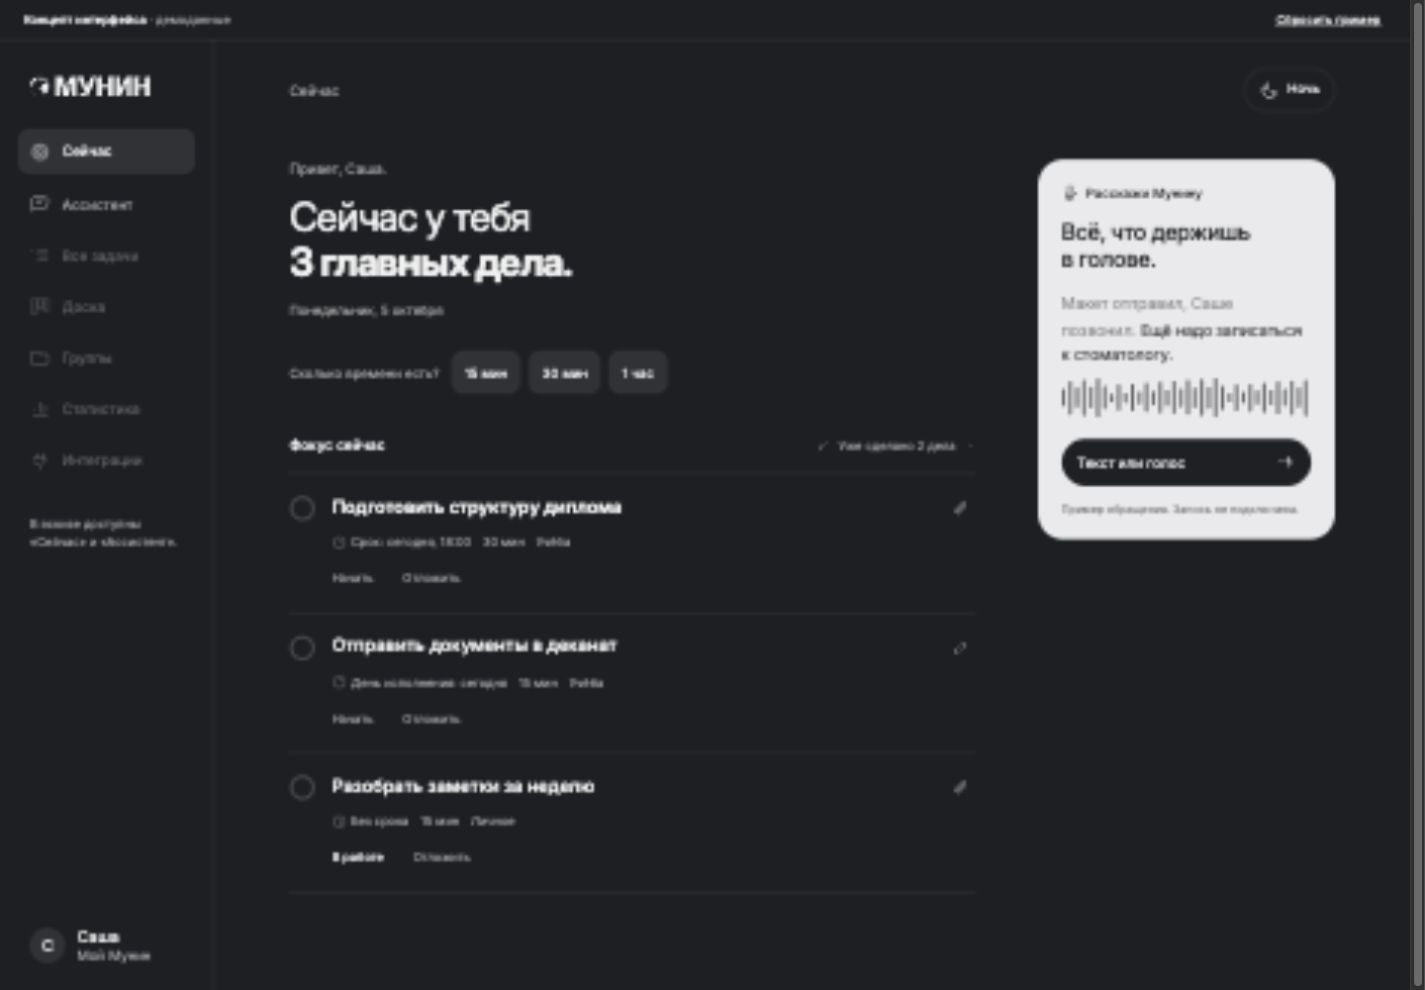
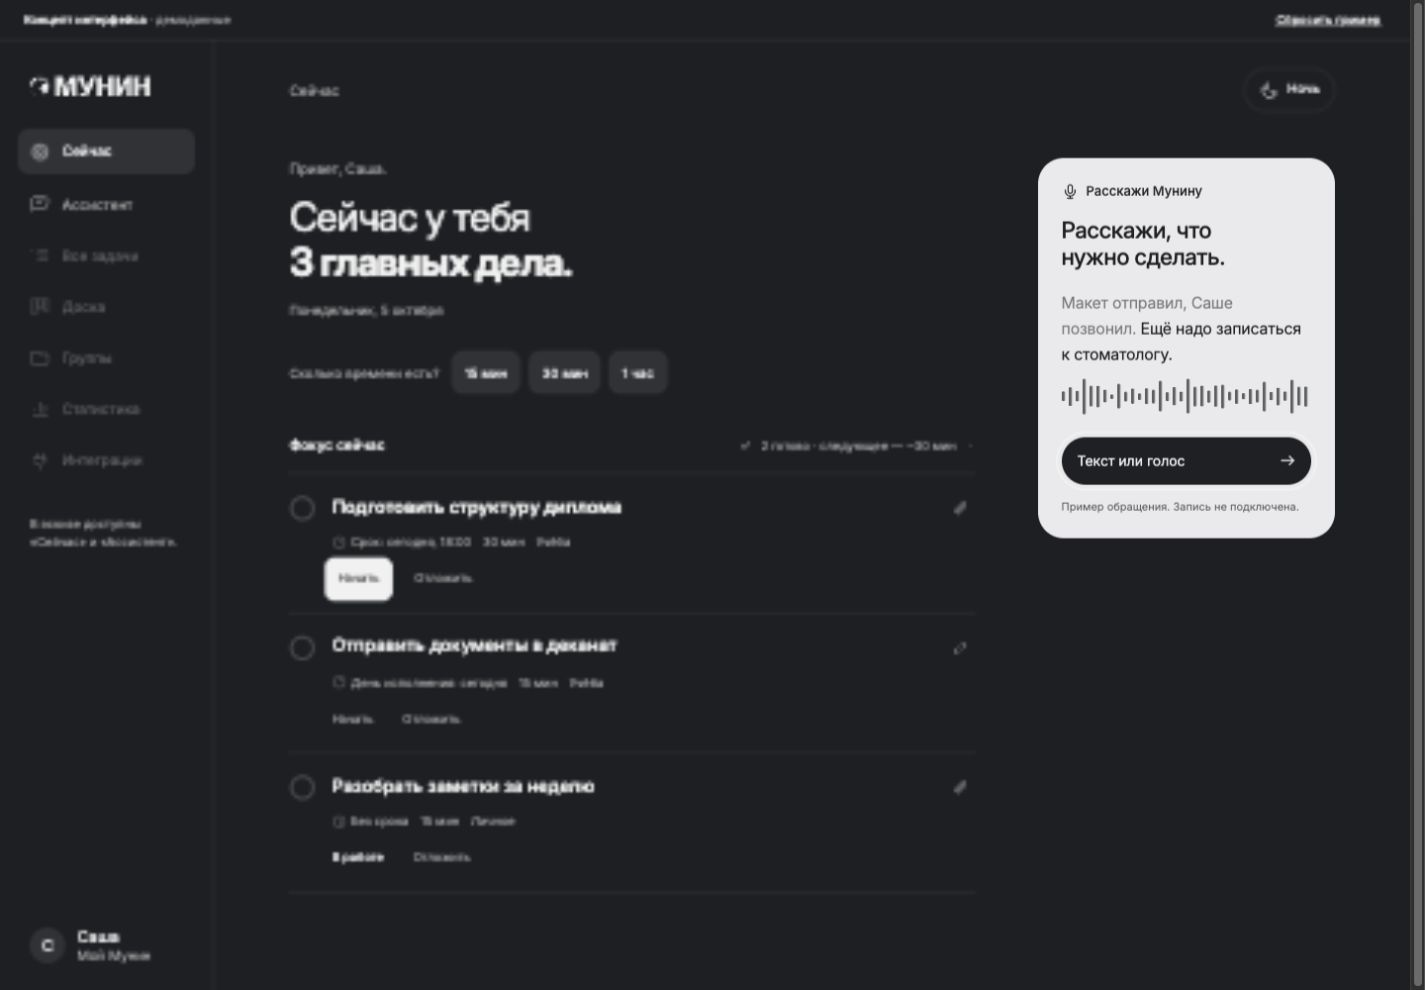
адаптировать ввод и отклик задач

diff --git a/docs/design/concept.html b/docs/design/concept.html
@@ -93,6 +93,7 @@
     .task-controls { display: flex; align-items: center; flex-wrap: wrap; gap: 4px 14px; margin: 6px 0 0 -8px; }
     .text-action { min-height: 44px; background: none; border: 0; padding: 8px; border-radius: 10px; font-size: 12px; color: var(--muted); }
     .text-action:hover { background: var(--raised); color: var(--text); }
+    .task:first-child .text-action[data-action="start"] { background: var(--text); color: var(--background); padding-inline: 14px; }
     .task-status { font-size: 12px; color: var(--text); margin: 0 8px; }
     .actions { display: flex; flex-wrap: wrap; gap: 8px; margin-top: 20px; }
     .action { min-height: 44px; border-radius: 12px; border: 1px solid var(--line); background: none; padding: 9px 14px; font-size: 14px; }
@@ -121,6 +122,10 @@
     .day-detail li .icon { width: 16px; height: 16px; margin-top: 2px; color: var(--muted); }
     .day-detail p { margin-top: 14px; font-size: 12px; color: var(--muted); }
     .bottom-nav { display: none; }
+    .capture-dock { display: none; }
+    .mobile-capture { display: none; }
+    .mini-wave { display: inline-flex; align-items: center; justify-content: center; gap: 3px; width: 26px; height: 24px; }
+    .mini-wave i { width: 2px; height: var(--bar-height); border-radius: 2px; background: currentColor; }
     .empty { padding: 24px 0; }
     .empty h3 { font-size: 22px; margin-bottom: 8px; }
     .empty p { color: var(--muted); font-size: 14px; }
@@ -150,18 +155,21 @@
     @media (max-width: 1023px) {
       .shell { grid-template-columns: minmax(0, 1fr); }
       .sidebar { display: none; } .mobile-brand { display: flex; padding: 0; } .top-label { display: none; }
-      .workspace { padding: 22px 24px calc(104px + var(--safe-bottom)); }
+      .workspace { padding: 22px 24px calc(176px + var(--safe-bottom)); }
       .top { margin-bottom: 32px; } .content { max-width: 680px; }
       .columns { grid-template-columns: minmax(0, 1fr); gap: 24px; }
-      .aside { align-items: start; }
+      .aside { display: none; }
+      .capture-dock { position: fixed; display: grid; place-items: center; bottom: calc(69px + var(--safe-bottom)); left: 0; right: 0; padding: 20px 20px 15px; background: linear-gradient(to bottom, transparent, var(--background) 18px); z-index: 6; pointer-events: none; }
+      .mobile-capture { display: flex; align-items: center; justify-content: center; gap: 12px; width: min(320px, 100%); min-height: 52px; padding: 12px 18px; border: 1px solid var(--line); border-radius: 100px; background: var(--text); color: var(--background); font-size: 14px; font-weight: 500; box-shadow: 0 4px 18px oklch(0 0 0 / .12); pointer-events: auto; }
       .bottom-nav { display: grid; grid-template-columns: repeat(6, minmax(0, 1fr)); position: fixed; bottom: 0; left: 0; right: 0; padding: 8px 4px calc(8px + var(--safe-bottom)); background: var(--background); border-top: 1px solid var(--line); z-index: 5; }
       .bottom-nav button { min-width: 0; min-height: 52px; display: flex; flex-direction: column; align-items: center; justify-content: center; gap: 4px; background: none; border: 0; color: var(--muted); border-radius: 12px; font-size: 10px; }
       .bottom-nav button[aria-current="page"] { background: var(--selected); color: var(--text); }
-      .toast { bottom: calc(90px + var(--safe-bottom)); }
+      .toast { bottom: calc(150px + var(--safe-bottom)); }
+      body[data-page="assistant"] .toast { bottom: calc(90px + var(--safe-bottom)); }
     }
     @media (max-width: 599px) {
       .studybar { padding: 4px 16px; gap: 8px; font-size: 10px; } .studybar button { font-size: 10px; }
-      .workspace { padding: 20px 20px calc(104px + var(--safe-bottom)); }
+      .workspace { padding: 20px 20px calc(176px + var(--safe-bottom)); }
       .theme { padding: 8px 10px; } .top { margin-bottom: 26px; }
       .greeting { margin-bottom: 24px; } .greeting h1 { font-size: 32px; letter-spacing: -.8px; }
       .greeting .lead-name { margin-bottom: 10px; } .greeting .date { margin-top: 12px; }
@@ -171,14 +179,31 @@
       .task h3 { font-size: 16px; } .meta { gap: 4px 10px; }
       .task-check { margin-left: -8px; margin-right: -6px; }
       .task-controls { gap: 4px 10px; margin-top: 2px; }
-      .aside { display: flex; flex-direction: column; gap: 14px; }
-      .capture { width: 100%; }
-      .capture { padding: 22px; border-radius: 24px; }
-      .capture .transcript { font-size: 15px; }
+      .section-head h2 { position: absolute; width: 1px; height: 1px; padding: 0; overflow: hidden; clip-path: inset(50%); white-space: nowrap; }
+      .day-progress { padding-left: 0; margin-right: 0; }
       .user-message { max-width: 94%; padding: 18px; } .proposal { padding: 20px; }
       .conversation-intro { font-size: 14px; }
     }
-    @media (prefers-reduced-motion: no-preference) { button { transition: background-color 160ms ease-out, color 160ms ease-out; } }
+    @media (prefers-reduced-motion: no-preference) {
+      button { transition: background-color 160ms ease-out, color 160ms ease-out; }
+      .capture { transition: transform 220ms ease-out; }
+      .capture button .icon { transition: transform 220ms ease-out; }
+      .capture:focus-within { transform: translateY(-2px); }
+      .capture:focus-within .wave i { animation: voice-wave 820ms ease-in-out var(--wave-delay) 3 alternate; }
+      .capture:focus-within button .icon { transform: translateX(4px); }
+      .mobile-capture:active .mini-wave i, .mobile-capture:focus-visible .mini-wave i { animation: voice-wave 260ms ease-in-out var(--wave-delay) 2 alternate; }
+      .mobile-capture:active { transform: scale(.98); }
+      .task.is-next { animation: next-task 240ms ease-out; }
+      .day-progress.advanced > .icon:first-child { animation: completed-mark 300ms ease-out; }
+      @media (hover: hover) {
+        .capture:hover { transform: translateY(-2px); }
+        .capture:hover .wave i { animation: voice-wave 820ms ease-in-out var(--wave-delay) 3 alternate; }
+        .capture:hover button .icon { transform: translateX(4px); }
+      }
+    }
+    @keyframes voice-wave { from { transform: scaleY(.55); } to { transform: scaleY(1.15); } }
+    @keyframes next-task { from { opacity: .45; transform: translateY(5px); } to { opacity: 1; transform: translateY(0); } }
+    @keyframes completed-mark { 50% { transform: scale(1.25); color: var(--text); } }
   </style>
 </head>
 <body>
@@ -267,13 +292,13 @@
           <div class="focus-column">
             <div class="greeting"><p class="lead-name">Привет, Саша.</p><h1 id="focus-title">Сейчас у тебя<br><strong id="focus-summary">3 главных дела.</strong></h1><p class="date">Понедельник, 5 октября</p></div>
             <div class="budget" role="group" aria-label="Сколько времени есть?"><span class="budget-label">Сколько времени есть?</span><button class="chip" data-minutes="15" aria-pressed="false">15 мин</button><button class="chip" data-minutes="30" aria-pressed="false">30 мин</button><button class="chip" data-minutes="60" aria-pressed="false">1 час</button></div>
-            <div class="section-head"><h2>Фокус сейчас</h2><button class="day-progress" id="day-progress" aria-expanded="false" aria-controls="day-detail"><svg class="icon" aria-hidden="true"><use href="#check"/></svg><span id="day-progress-note" aria-live="polite">Уже сделано 2 дела</span><svg class="icon chevron" aria-hidden="true"><use href="#chevron"/></svg></button></div>
+            <div class="section-head"><h2>Фокус сейчас</h2><button class="day-progress" id="day-progress" aria-expanded="false" aria-controls="day-detail"><svg class="icon" aria-hidden="true"><use href="#check"/></svg><span id="day-progress-note" aria-live="polite">2 готово · следующее — ~30 мин</span><svg class="icon chevron" aria-hidden="true"><use href="#chevron"/></svg></button></div>
             <section class="day-detail" id="day-detail" aria-labelledby="day-detail-title" hidden><h3 id="day-detail-title">Что уже получилось сегодня</h3><ul id="completed-items"></ul><p id="day-extra"></p></section>
             <div id="tasks"></div>
             <div id="empty" class="empty" hidden><h3>Можно выдохнуть.</h3><p>В этой подборке больше нет задач. Можно выбрать другой бюджет времени или рассказать о новых делах.</p></div>
           </div>
           <aside class="aside" aria-label="Ввод">
-            <div class="capture"><div class="module-heading"><svg class="icon" aria-hidden="true"><use href="#mic"/></svg>Расскажи Мунину</div><h2>Всё, что держишь<br>в голове.</h2><p class="transcript"><span class="faded">Макет отправил, Саше позвонил.</span> Ещё надо записаться к стоматологу.</p><div class="wave" aria-hidden="true"></div><button data-page="assistant">Текст или голос<svg class="icon" aria-hidden="true"><use href="#arrow"/></svg></button><small>Пример обращения. Запись не подключена.</small></div>
+            <div class="capture"><div class="module-heading"><svg class="icon" aria-hidden="true"><use href="#mic"/></svg>Расскажи Мунину</div><h2>Расскажи, что<br>нужно сделать.</h2><p class="transcript"><span class="faded">Макет отправил, Саше позвонил.</span> Ещё надо записаться к стоматологу.</p><div class="wave" aria-hidden="true"></div><button data-page="assistant">Текст или голос<svg class="icon" aria-hidden="true"><use href="#arrow"/></svg></button><small>Пример обращения. Запись не подключена.</small></div>
           </aside>
         </div>
       </section>
@@ -294,6 +319,7 @@
       </section>
     </main>
   </div>
+  <div class="capture-dock" id="capture-dock"><button class="mobile-capture" id="mobile-capture" data-page="assistant"><span class="mini-wave" aria-hidden="true"><i style="--bar-height:9px;--wave-delay:0ms"></i><i style="--bar-height:18px;--wave-delay:40ms"></i><i style="--bar-height:24px;--wave-delay:80ms"></i><i style="--bar-height:14px;--wave-delay:20ms"></i><i style="--bar-height:8px;--wave-delay:60ms"></i></span>Рассказать Мунину<svg class="icon" aria-hidden="true"><use href="#arrow"/></svg></button></div>
   <nav class="bottom-nav" aria-label="Нижняя навигация">
     <button data-page="focus" aria-current="page"><svg class="icon"><use href="#focus"/></svg>Сейчас</button><button data-page="assistant"><svg class="icon"><use href="#chat"/></svg>Ассистент</button><button disabled><svg class="icon"><use href="#list"/></svg>Задачи</button><button disabled><svg class="icon"><use href="#board"/></svg>Доска</button><button disabled><svg class="icon"><use href="#groups"/></svg>Группы</button><button disabled><svg class="icon"><use href="#more"/></svg>Ещё</button>
   </nav>
@@ -310,9 +336,9 @@
     const icon = (name) => `<svg class="icon" aria-hidden="true"><use href="#${name}"/></svg>`;
     const escapeHtml = (value) => value.replace(/[&<>"']/g, (char) => ({'&':'&amp;', '<':'&lt;', '>':'&gt;', '"':'&quot;', "'":'&#39;'}[char]));
     const doneWord = (number) => number % 10 === 1 && number % 100 !== 11 ? 'дело' : number % 10 >= 2 && number % 10 <= 4 && (number % 100 < 12 || number % 100 > 14) ? 'дела' : 'дел';
-    function render() {
+    function render(revealNext = false) {
       const visible = tasks.filter((task) => task.status !== 'done' && task.status !== 'moved' && (!budget || task.minutes <= budget));
-      tasksElement.innerHTML = visible.map((task) => `<article class="task" aria-labelledby="title-${task.id}">
+      tasksElement.innerHTML = visible.map((task, index) => `<article class="task${revealNext && index === 0 ? ' is-next' : ''}" aria-labelledby="title-${task.id}">
         <button class="task-check" data-action="done" data-id="${task.id}" aria-label="Сделано: ${escapeHtml(task.title)}" title="Отметить как выполненную"><span class="check-ring">${icon('check')}</span></button>
         <div class="task-body"><div class="task-heading"><h3 id="title-${task.id}"><button class="task-title" data-action="edit" data-id="${task.id}">${escapeHtml(task.title)}</button></h3><button class="edit" data-action="edit" data-id="${task.id}" aria-label="Редактировать: ${escapeHtml(task.title)}">${icon('edit')}</button></div>
         <div class="meta"><span>${icon('clock')}${escapeHtml(task.meta)}</span><span>${task.minutes} мин</span><span>${task.group}</span></div>
@@ -320,8 +346,12 @@
       </article>`).join('');
       document.getElementById('focus-summary').textContent = visible.length === 1 ? '1 главное дело.' : visible.length === 0 ? 'пауза.' : `${visible.length} главных дела.`;
       document.getElementById('empty').hidden = visible.length !== 0;
-      document.getElementById('day-progress-note').textContent = `Уже сделано ${counts.done} ${doneWord(counts.done)}`;
-      document.getElementById('day-progress').setAttribute('aria-label', `Сегодня уже сделано ${counts.done} ${doneWord(counts.done)}. Показать итоги дня`);
+      const next = visible[0];
+      const nextNote = next ? next.status === 'started' ? `в работе — ~${next.minutes} мин` : `следующее — ~${next.minutes} мин` : 'в подборке пауза';
+      document.getElementById('day-progress-note').textContent = `${counts.done} готово · ${nextNote}`;
+      const progress = document.getElementById('day-progress');
+      progress.setAttribute('aria-label', `Сегодня сделано ${counts.done} ${doneWord(counts.done)}; ${nextNote}. Итоги дня`);
+      progress.classList.toggle('advanced', revealNext);
       document.getElementById('completed-items').innerHTML = completedToday.map((title) => `<li>${icon('check')}<span>${escapeHtml(title)}</span></li>`).join('');
       document.getElementById('day-extra').textContent = `Ещё: начато ${counts.started}, перенесено ${counts.moved}.`;
     }
@@ -331,6 +361,8 @@
       toastTimer = setTimeout(() => { toast.hidden = true; }, 3500);
     }
     function showPage(page) {
+      document.body.dataset.page = page;
+      document.getElementById('capture-dock').hidden = page !== 'focus';
       document.getElementById('focus-page').hidden = page !== 'focus'; document.getElementById('assistant-page').hidden = page !== 'assistant';
       document.querySelectorAll('nav [data-page]').forEach((button) => { if (button.dataset.page === page) button.setAttribute('aria-current', 'page'); else button.removeAttribute('aria-current'); });
       document.getElementById('top-label').textContent = page === 'focus' ? 'Сейчас' : 'Ассистент';
@@ -348,10 +380,15 @@
       if (button.dataset.action === 'edit') {
         editingId = task.id; document.getElementById('task-title').value = task.title; document.getElementById('edit-dialog').showModal(); return;
       }
-      if (button.dataset.action === 'done') { task.status = 'done'; counts.done++; completedToday.push(task.title); notice('Ещё одно дело готово.'); }
+      const completed = button.dataset.action === 'done';
+      if (completed) { task.status = 'done'; counts.done++; completedToday.push(task.title); }
       if (button.dataset.action === 'start') { task.status = 'started'; counts.started++; notice('Задача начата в примере'); }
       if (button.dataset.action === 'snooze') { task.status = 'moved'; counts.moved++; notice('В примере: отложено на завтра'); }
-      render();
+      render(completed);
+      if (completed) {
+        const next = tasks.find((item) => item.status !== 'done' && item.status !== 'moved' && (!budget || item.minutes <= budget));
+        notice(next ? `Готово. ${next.status === 'started' ? 'В работе ещё одно дело' : 'Следующее дело'} — примерно ${next.minutes} минут.` : 'Подборка закрыта. Можно выдохнуть.');
+      }
       const nextControl = tasksElement.querySelector('[data-action="done"]') || document.querySelector('[data-minutes]'); nextControl.focus();
     });
     document.getElementById('cancel-edit').addEventListener('click', () => document.getElementById('edit-dialog').close());
@@ -389,7 +426,7 @@
       document.getElementById('toast').hidden = true; clearTimeout(toastTimer); render(); showPage('focus');
     }
     document.getElementById('reset').addEventListener('click', reset);
-    document.querySelectorAll('.wave').forEach((wave) => wave.innerHTML = Array.from({length: 36}, (_, index) => `<i style="height:${8 + ((index * 17 + 9) % 32)}px"></i>`).join(''));
+    document.querySelectorAll('.wave').forEach((wave) => wave.innerHTML = Array.from({length: 36}, (_, index) => `<i style="height:${8 + ((index * 17 + 9) % 32)}px;--wave-delay:${(index * 37) % 180}ms"></i>`).join(''));
     reset();
   </script>
 </body>
